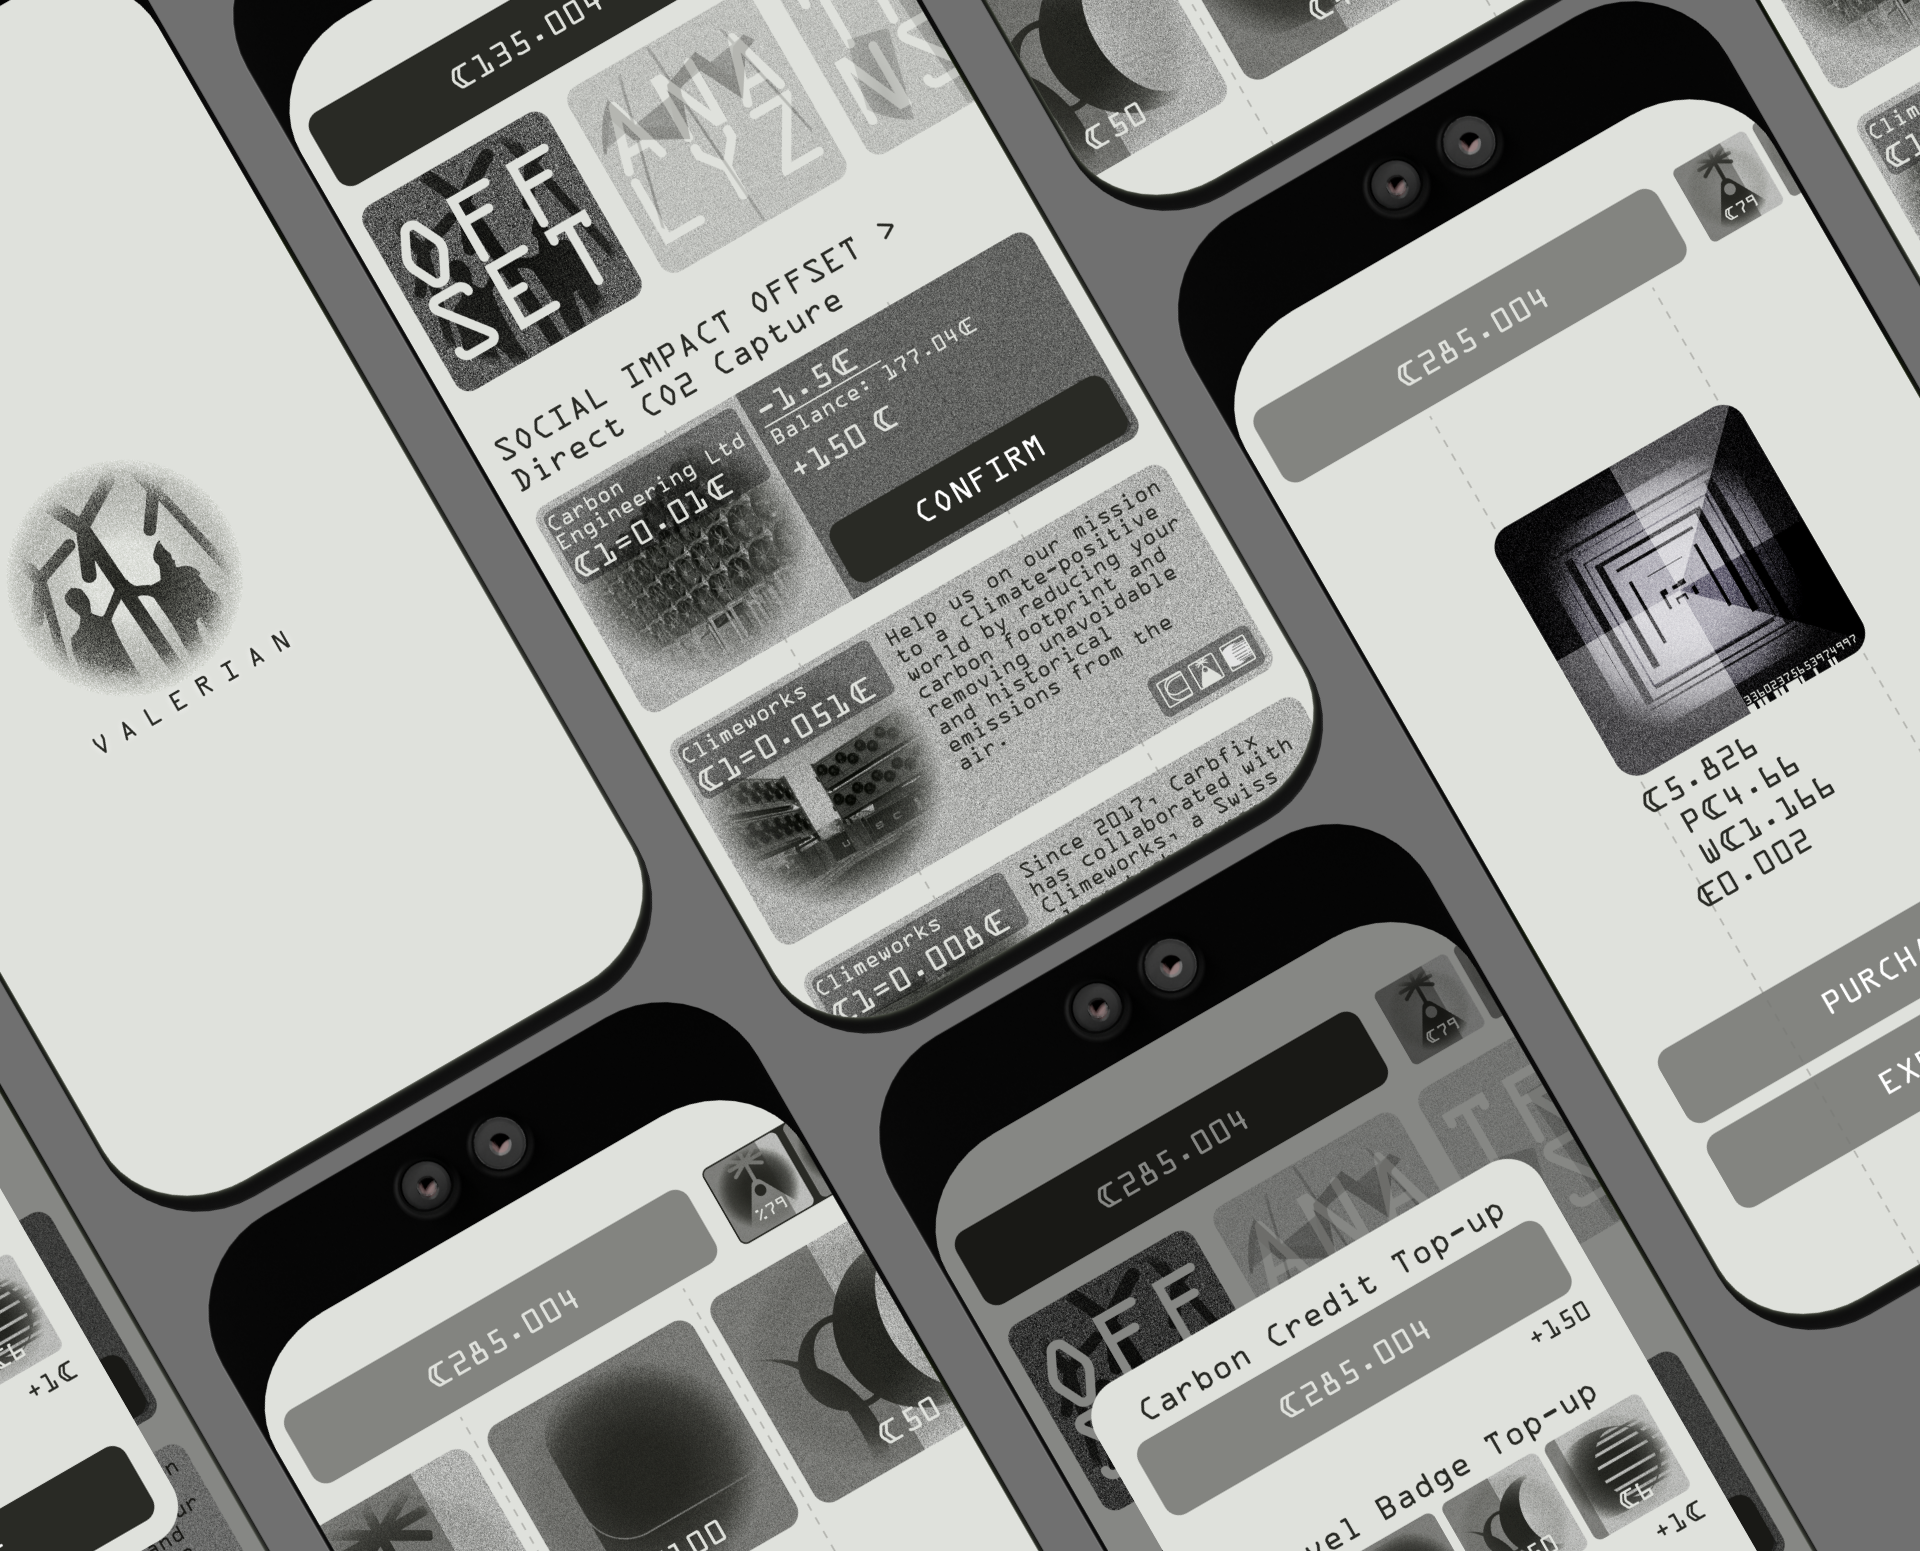
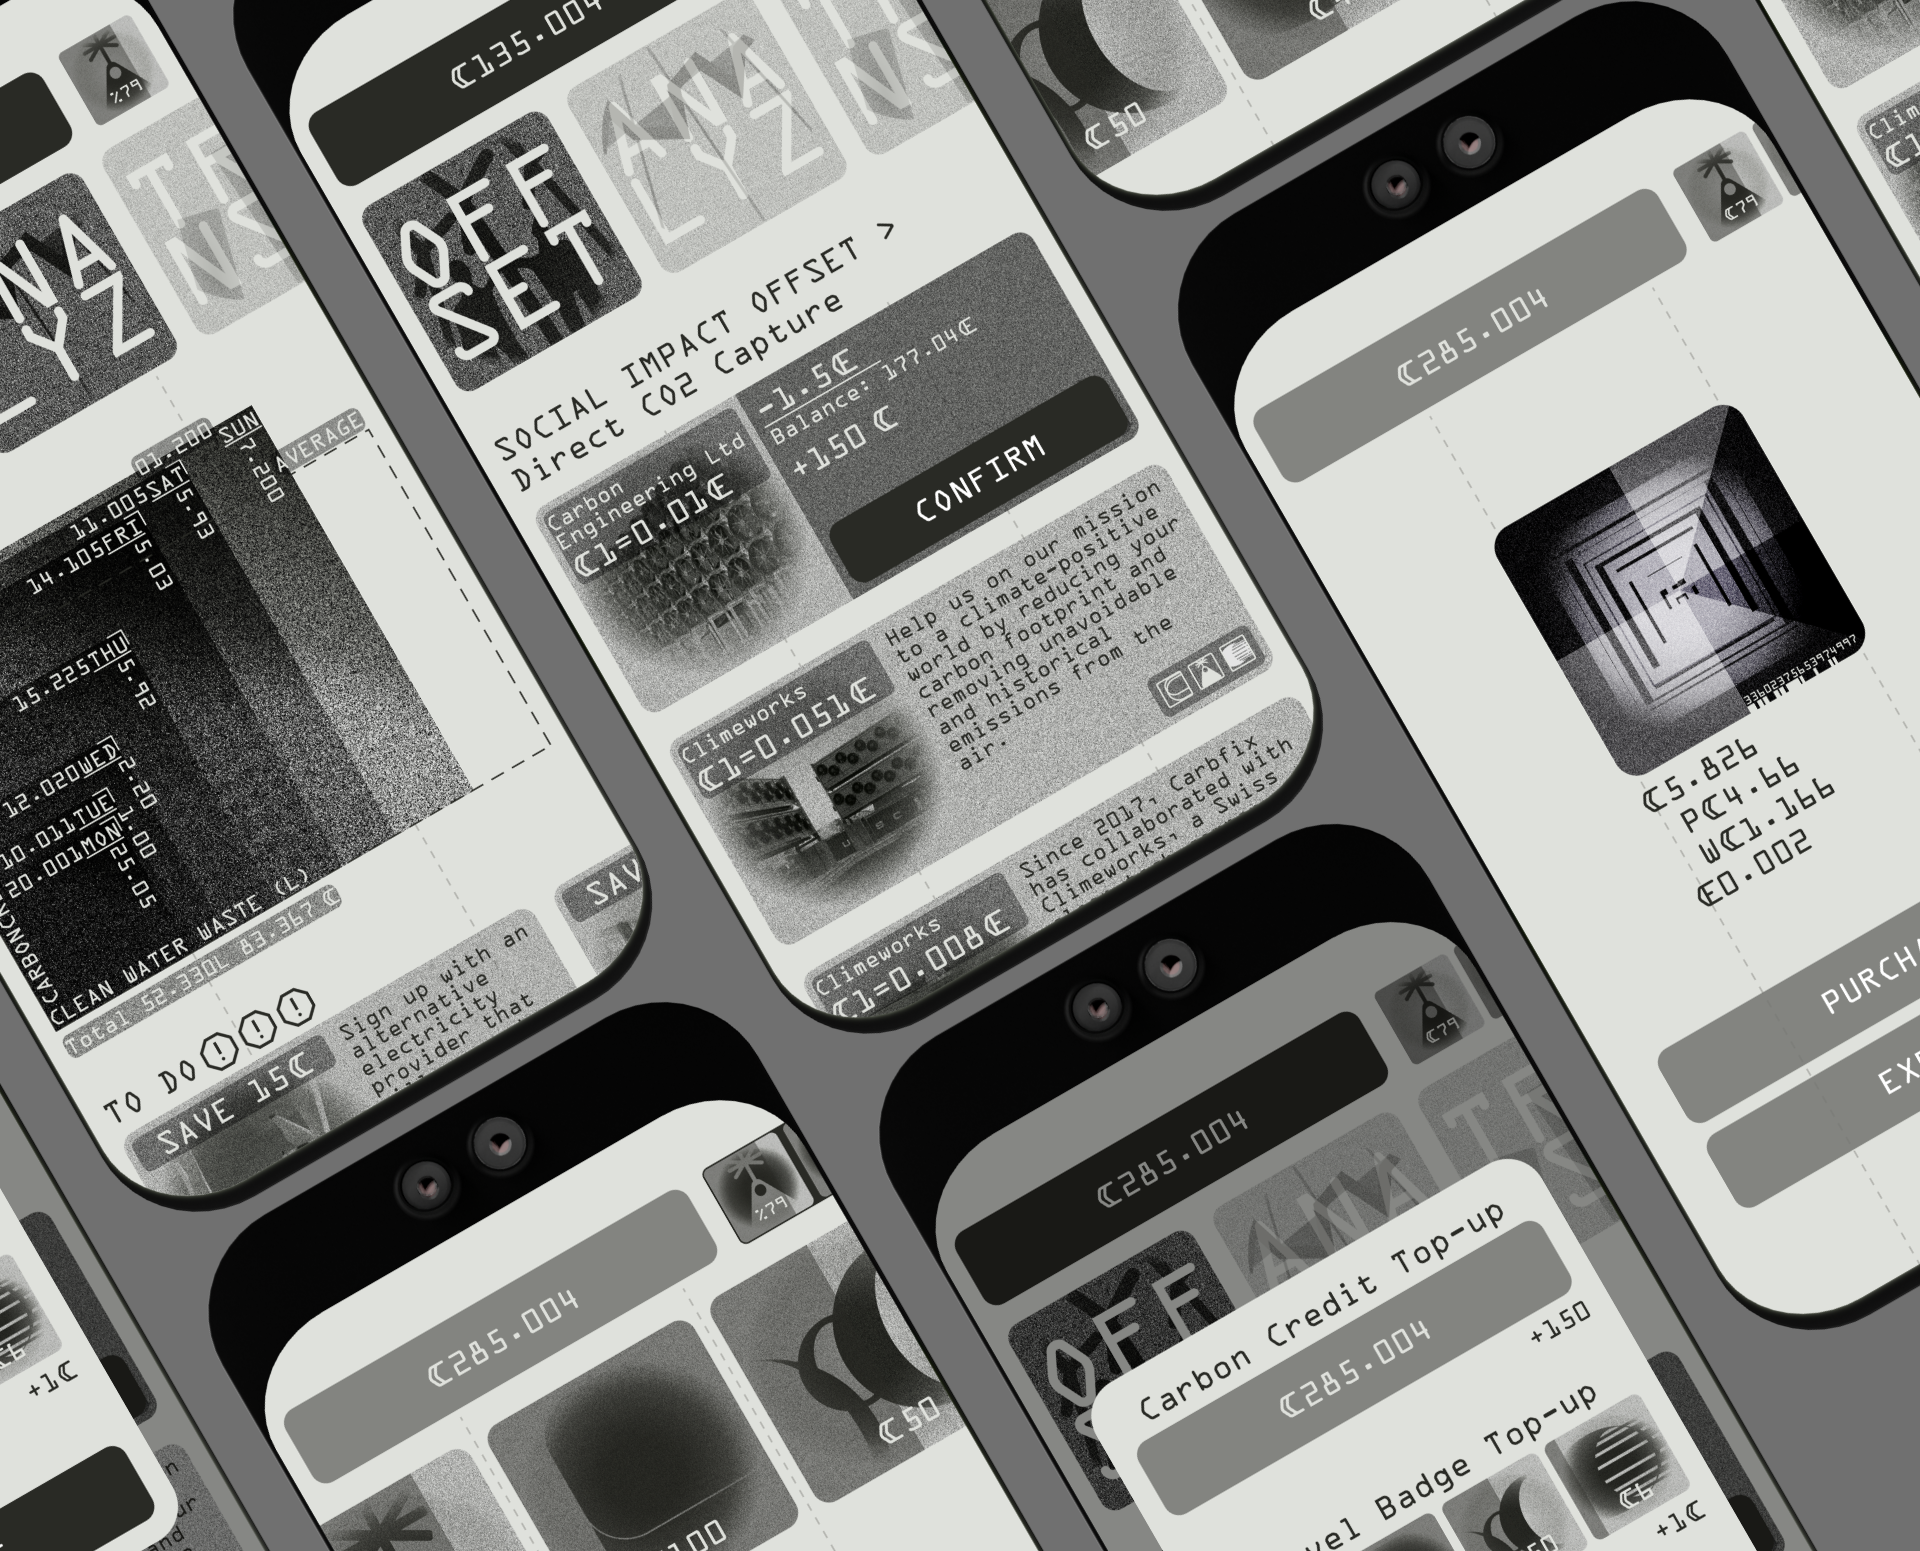
Edit

Changed region(s): [[0.0, 0.0, 0.3438, 0.7737]]

diff --git a/valerian.html b/valerian.html
@@ -175,7 +175,7 @@
                 <img src="Valerian/13TravelBadge03.png" alt="">
             </div>
             <div class="oneForthImage">
-                <img src="Valerian/15CCClicked.png" alt="">
+                <img src="Valerian/Analyz.png" alt="">
             </div>
             <div class="oneForthImage">
                 <img src="Valerian/16PDP.png" alt="">
@@ -210,9 +210,9 @@
     <br>
     <section>
         <div class="content container columnsFlex">
-            <div class="">
+            <a class="" target="_blank" href="Valerian/GanttChart.png">
                 <img src="Valerian/GanttChart.png" alt="">
-            </div>
+            </a>
         </div>
     </section>
 
@@ -233,30 +233,30 @@
     <br>
     <section>
         <div class="content container columnsFlex">
-            <div class="halfImage">
+            <a class="halfImage" target="_blank" href="Valerian/Discover01.png">
                 <img src="Valerian/Discover01.png" alt="">
-            </div>
-            <div class="halfImage">
+            </a>
+            <a class="halfImage" target="_blank" href="Valerian/Discover02.png">
                 <img src="Valerian/Discover02.png" alt="">
-            </div>
-            <div class="halfImage">
+            </a>
+            <a class="halfImage" target="_blank" href="Valerian/Discover03.png">
                 <img src="Valerian/Discover03.png" alt="">
-            </div>
-            <div class="halfImage">
+            </a>
+            <a class="halfImage" target="_blank" href="Valerian/Discover04.png">
                 <img src="Valerian/Discover04.png" alt="">
-            </div>
-            <div class="halfImage">
+            </a>
+            <a class="halfImage" target="_blank" href="Valerian/Discover05.png">
                 <img src="Valerian/Discover05.png" alt="">
-            </div>
-            <div class="halfImage">
+            </a>
+            <a class="halfImage" target="_blank" href="Valerian/Discover06.png">
                 <img src="Valerian/Discover06.png" alt="">
-            </div>
-            <div class="halfImage">
+            </a>
+            <a class="halfImage" target="_blank" href="Valerian/Discover07.png">
                 <img src="Valerian/Discover07.png" alt="">
-            </div>
-            <div class="halfImage">
+            </a>
+            <a class="halfImage" target="_blank" href="Valerian/Discover08.png">
                 <img src="Valerian/Discover08.png" alt="">
-            </div>
+            </a>
         </div>
 
     </section>
@@ -295,12 +295,12 @@
     <br>
     <section>
         <div class="content container columnsFlex">
-            <div class="halfImage">
+            <a class="halfImage" target="_blank" href="Valerian/Affinity.png">
                 <img src="Valerian/Affinity.png" alt="">
-            </div>
-            <div class="halfImage">
+            </a>
+            <a class="halfImage" target="_blank" href="Valerian/Persona.png">
                 <img src="Valerian/Persona.png" alt="">
-            </div>
+            </a>
         </div>
 
     </section>
@@ -325,31 +325,31 @@
     <br>
     <section>
         <div class="content container columnsFlex">
-            <div class="halfImage">
+            <a class="halfImage" target="_blank" href="Valerian/Develop07.png">
                 <img src="Valerian/Develop07.png" alt="">
-            </div>
-            <div class="halfImage">
+            </a>
+            <a class="halfImage" target="_blank" href="Valerian/Develop08.png">
                 <img src="Valerian/Develop08.png" alt="">
-            </div>
+            </a>
 
-            <div class="halfImage">
+            <a class="halfImage" target="_blank" href="Valerian/Develop02.png">
                 <img src="Valerian/Develop02.png" alt="">
-            </div>
-            <div class="halfImage">
+            </a>
+            <a class="halfImage" target="_blank" href="Valerian//Develop03.png">
                 <img src="Valerian//Develop03.png" alt="">
-            </div>
-            <div class="halfImage">
+            </a>
+            <a class="halfImage" target="_blank" href="Valerian//Develop04.png">
                 <img src="Valerian//Develop04.png" alt="">
-            </div>
-            <div class="halfImage">
+            </a>
+            <a class="halfImage" target="_blank" href="Valerian//Develop05.png">
                 <img src="Valerian//Develop05.png" alt="">
-            </div>
-            <div class="halfImage">
+            </a>
+            <a class="halfImage" target="_blank" href="Valerian/Develop10.png">
                 <img src="Valerian/Develop10.png" alt="">
-            </div>
-            <div class="halfImage">
+            </a>
+            <a class="halfImage" target="_blank" href="Valerian//Develop06.png">
                 <img src="Valerian//Develop06.png" alt="">
-            </div>
+            </a>
         </div>
     </section>
 
@@ -372,12 +372,12 @@
     <br>
     <section>
         <div class="content container columnsFlex">
-            <div class="halfImage">
+            <a class="halfImage" target="_blank" href="Valerian//Develop09.png">
                 <img src="Valerian//Develop09.png" alt="">
-            </div>
-            <div class="halfImage">
+            </a>
+            <a class="halfImage" target="_blank" href="Valerian//Develop11.png">
                 <img src="Valerian//Develop11.png" alt="">
-            </div>
+            </a>
         </div>
     </section>
 
